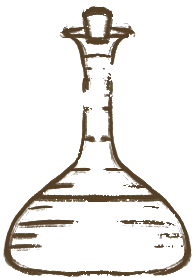
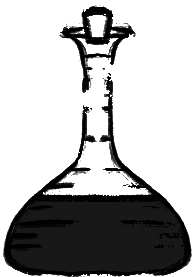
changing flasks color

diff --git a/colorflask.cpp b/colorflask.cpp
@@ -15,24 +15,6 @@
 ColorFlask::ColorFlask(QWidget* parent)
     : QWidget{ parent }, world(b2Vec2(0.0f, 10.0f)), isDragging(false) {
 
-    // Creates an overlay of the lineart and the actual color portion (TODO: Have the colorize effect only effect the color portion)
-
-    setStyleSheet("border-image: none; image: url(:/images/potionColor.svg);");
-
-    flask = new QLabel(this);
-    flask->setAlignment(Qt::AlignCenter);
-
-    QPixmap flaskPixmap(":/images/potion.png");
-    flask->setPixmap(flaskPixmap);
-    flask->setScaledContents(true);
-
-    QVBoxLayout* layout = new QVBoxLayout(this);
-    layout->setContentsMargins(0, 0, 0, 0);
-    layout->addWidget(flask);
-    setLayout(layout);
-
-    flask->resize(this->size());
-
     // box2d setup
     b2BodyDef groundBodyDef;
     groundBodyDef.position.Set(0.0f, 455.0f);
@@ -96,7 +78,6 @@ void ColorFlask::changeColor(QColor color) {
     QGraphicsColorizeEffect* colorizeEffect = new QGraphicsColorizeEffect(this);
     colorizeEffect->setColor(color);
     this->setGraphicsEffect(colorizeEffect);
-    this->color = color;
 }
 
 
@@ -137,12 +118,19 @@ void ColorFlask::simulatePhysics() {
 
         world.Step(1.0f / 60.0f, 6, 2);
         b2Vec2 position = body->GetPosition();
-        if(position.x > 300 && position.y > 180 && position.x < 500){
+        if(position.x > 300 && position.y > 180 && position.x < 500){ // TODO: FIX incorrect if condition
             move(this->initialPosition);  // return to shelf
-            setUpFlask();
-            emit addToCauldron(color);
+            body->SetAwake(false);
+
+            // call update color function for cauldron
         }
         else
             move(QPoint(position.x, position.y));
     }
+}
+
+void ColorFlask::paintEvent(QPaintEvent* event) {
+    QPainter painter(this);
+    QPixmap pixmap(":/images/potion.png");
+    painter.drawPixmap(rect(), pixmap);
 }

diff --git a/colorflask.h b/colorflask.h
@@ -28,6 +28,7 @@ protected:
     void mousePressEvent(QMouseEvent* event) override;
     void mouseMoveEvent(QMouseEvent* event) override;
     void mouseReleaseEvent(QMouseEvent* event) override;
+    void paintEvent(QPaintEvent* event) override;
 
 public:
     explicit ColorFlask(QWidget* parent = nullptr);

diff --git a/Cauldron.h b/Cauldron.h
@@ -20,7 +20,6 @@ private:
 
 public slots:
     void addColor(QColor newColor);
-
 };
 
 #endif // CAULDRON_H
